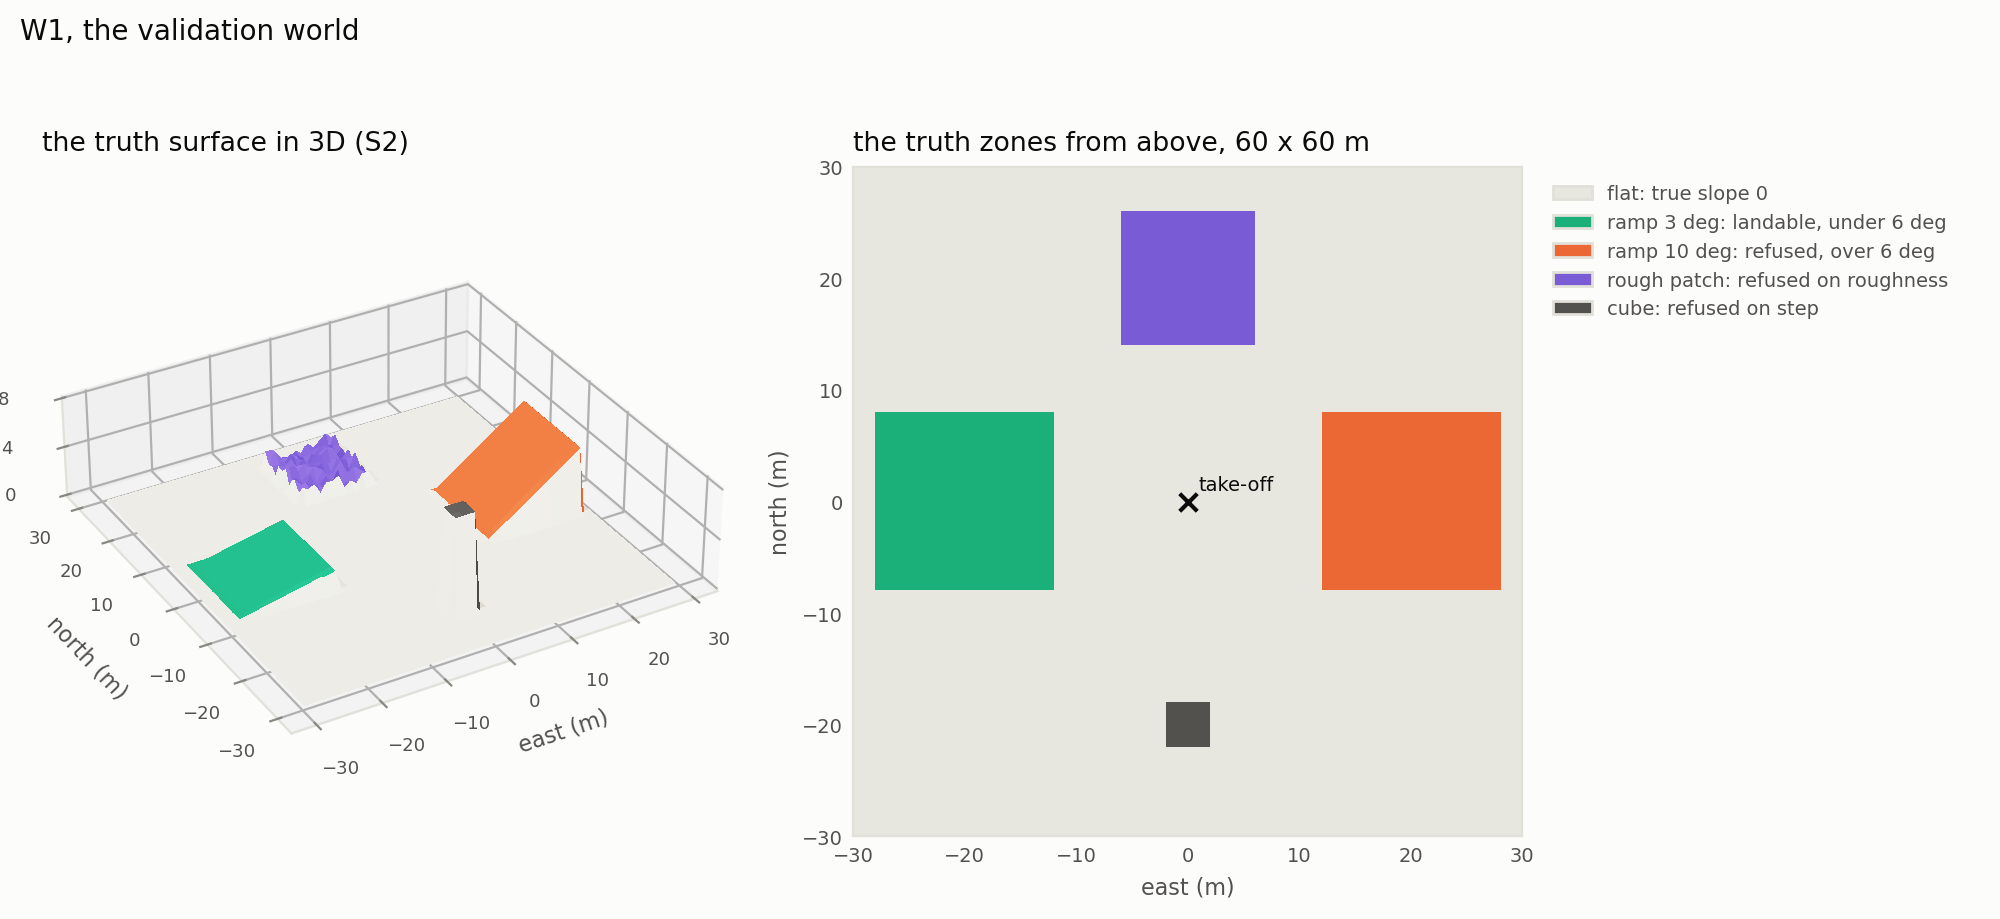
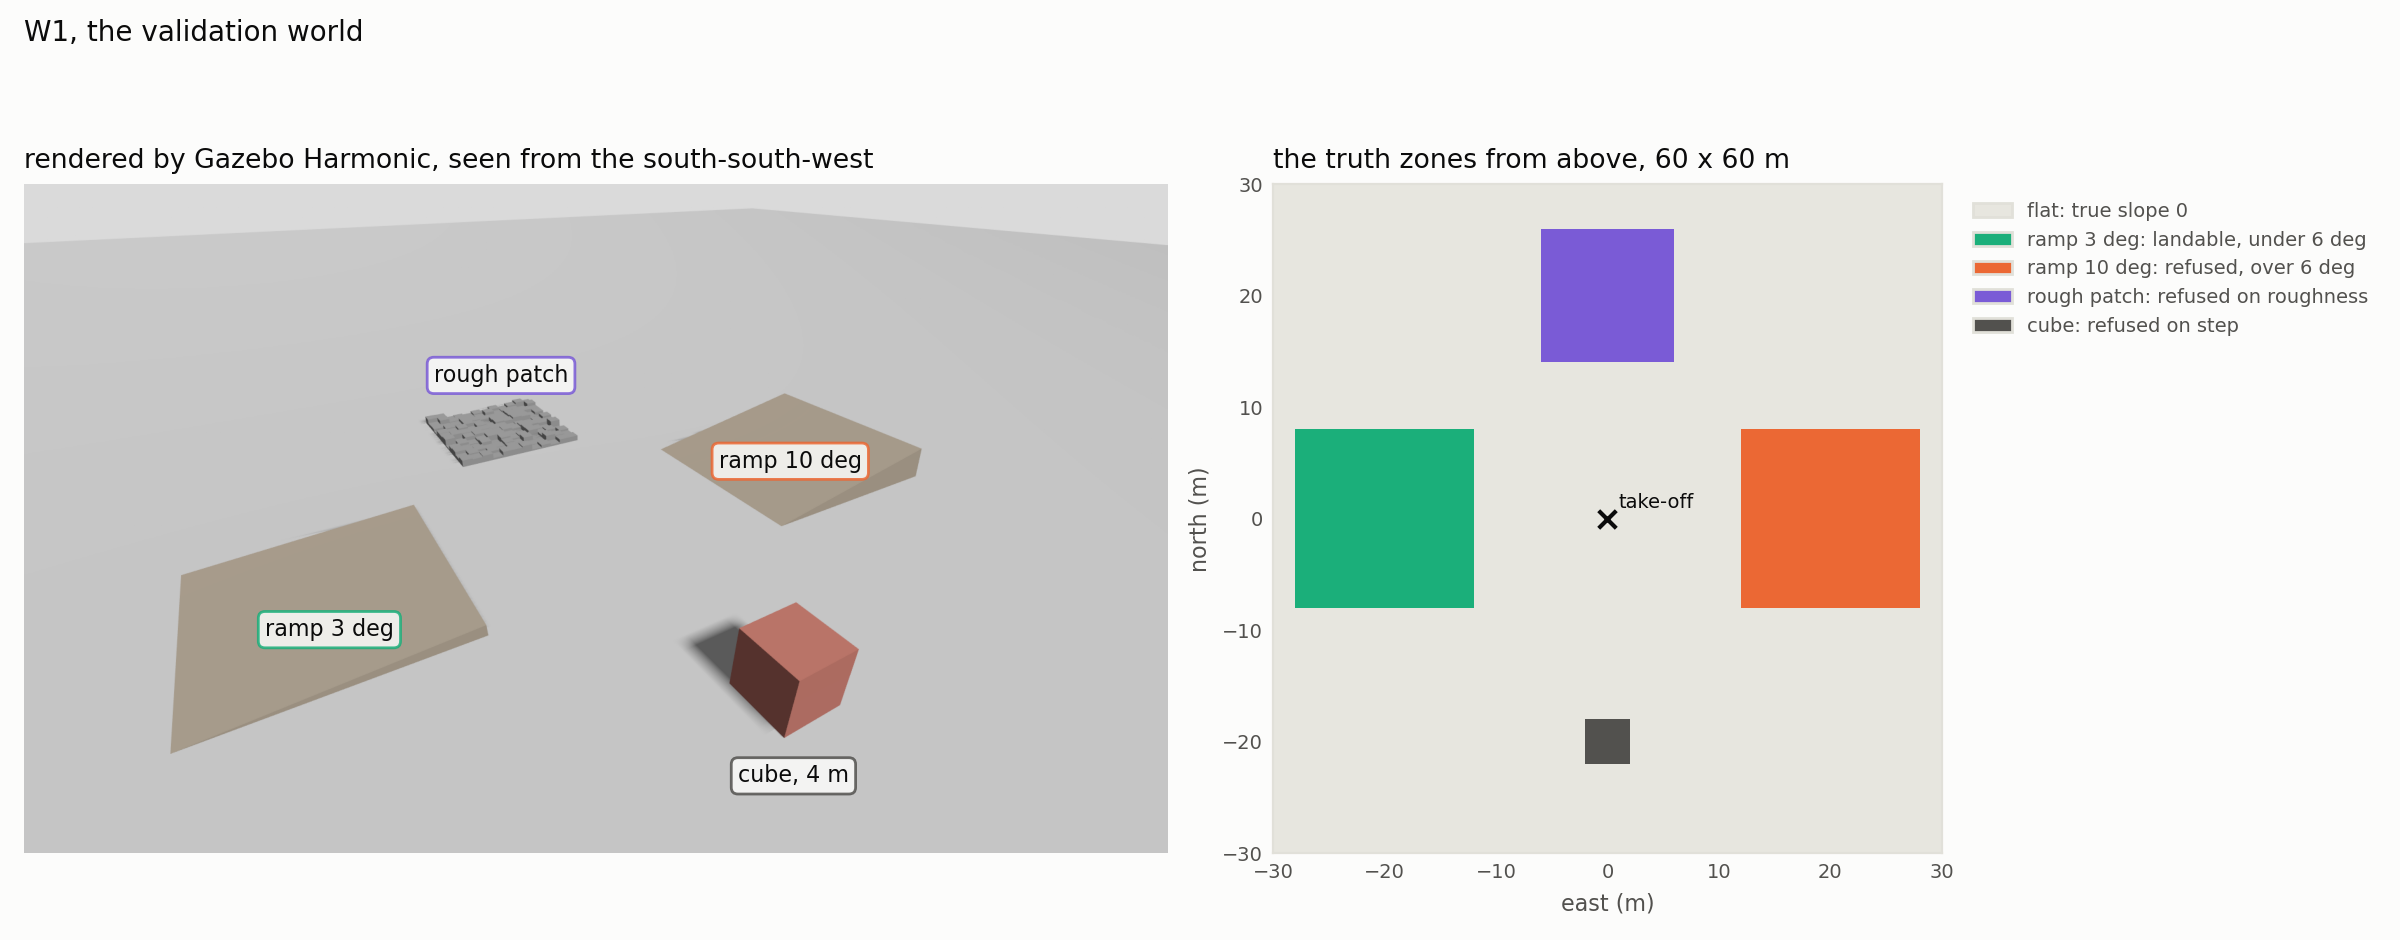
F3 from a real Gazebo render; record why gate H has 210 missions not 240
F3 now shows W1 rendered by Gazebo Harmonic next to the truth map, as
spec 6.2 asks: f3_capture/capture.sh starts the world with a GUI config
holding a fixed camera (south-south-west, 32 deg) and saves the render
through the Screenshot service; zones placed on it check against the
truth centroids (3 deg ramp west, 10 deg ramp east, rough north, cube
south). Gate H: B2 is B3 at alpha 1 by construction (U = alpha G +
(1 - alpha) M reduces to G over the same C1-admissible candidates), so
7 configurations and 210 missions; note under the gates table, pointer
in section 5. Campaign marker files removed and ignored. Before the
tag: colcon build clean, 120 tests passed, 1 skipped (copyright).

diff --git a/experiments/2026-10-24_thesis_figures/f3_validation_world.py b/experiments/2026-10-24_thesis_figures/f3_validation_world.py
@@ -1,20 +1,23 @@
 #!/usr/bin/env python3
 """
-Spec F3: the validation world W1, its geometry in 3D next to its truth
+Spec F3: the validation world W1, the Gazebo render next to its truth
 map, the zones named.
 
-The spec asks for a Gazebo render next to the truth map. Drawn here
-instead: a 3D view of the truth surface itself (worlds/
-validation_truth.npz, rasterised from the world's own geometry, S2),
-which shows the same scene without starting a simulation, and is
-exactly what every measure of the thesis is compared against. A
-Gazebo screenshot can replace the left panel later if wanted.
+Left: W1 rendered by Gazebo Harmonic itself (f3_gazebo_w1.png, saved
+by f3_capture/capture.sh through the GUI's Screenshot service, camera
+fixed in f3_capture/gui.config: from the south-south-west, 32 deg
+above the horizon). The zone names on it are placed at pixel positions
+read on that render; they hold for that camera pose only, so a new
+pose means new positions. Right: the truth zones seen from above
+(worlds/validation_truth.npz, rasterised from the world's own
+geometry, S2), with the geometry each one tests: flat ground, a ramp
+under the 6 deg threshold, one over it, a rough patch, a cube.
 
-Left: the truth surface in 3D, heights exaggerated by 2 so the 3 deg
-ramp shows. Right: the truth zones seen from above, with their names
-and the geometry each one tests (flat ground, a ramp under the 6 deg
-threshold, one over it, a rough patch, a cube).
+Choice: a real render rather than the 3D plot of the truth drawn here
+until 27 Oct, as the spec asks for one; the truth map stays on the
+right because it is what every measure is compared against.
 
+    bash f3_capture/capture.sh      # once, Gazebo, nothing else running
     python3 f3_validation_world.py
 """
 
@@ -22,14 +25,16 @@ from pathlib import Path
 
 import matplotlib
 matplotlib.use('Agg')
+import matplotlib.image as mpimg  # noqa: E402
 import matplotlib.pyplot as plt  # noqa: E402
-from matplotlib.colors import LightSource, ListedColormap  # noqa: E402
+from matplotlib.colors import ListedColormap  # noqa: E402
 import numpy as np  # noqa: E402
 
-ROOT = Path(__file__).resolve().parents[2]
+HERE = Path(__file__).resolve().parent
+ROOT = HERE.parents[1]
 TRUTH = ROOT / 'worlds' / 'validation_truth.npz'
-OUT = Path(__file__).resolve().parent / 'f3_validation_world.png'
-EXAGGERATION = 2.0
+RENDER = HERE / 'f3_gazebo_w1.png'
+OUT = HERE / 'f3_validation_world.png'
 
 SURFACE, INK, INK2, MUTED, GRID = ('#fcfcfb', '#0b0b0b', '#52514e',
                                    '#898781', '#e1e0d9')
@@ -41,15 +46,21 @@ LABEL = {'flat': 'flat: true slope 0',
          'ramp_bad': 'ramp 10 deg: refused, over 6 deg',
          'rough': 'rough patch: refused on roughness',
          'obstacle': 'cube: refused on step'}
+# Pixel positions of each zone on the render of gui.config's camera
+# (image 1799 x 1052, y down), and the short name written there.
+ON_RENDER = {'ramp_ok': ((480, 700), 'ramp 3 deg'),
+             'ramp_bad': ((1205, 435), 'ramp 10 deg'),
+             'rough': ((750, 300), 'rough patch'),
+             'obstacle': ((1210, 930), 'cube, 4 m')}
 
 
 def main():
+    if not RENDER.exists():
+        raise SystemExit(f'{RENDER.name} missing: run f3_capture/capture.sh')
     t = np.load(TRUTH)
     names = [str(n) for n in t['zone_names']]
-    up = t['truth'].T                     # heights up, rows north
-    zone = t['zone'].T
+    zone = t['zone'].T                    # rows north, columns east
     c = t['centres']
-    east, north = np.meshgrid(c, c)
 
     plt.rcParams.update({'font.family': 'sans-serif', 'font.size': 8,
                          'axes.edgecolor': GRID, 'axes.labelcolor': INK2,
@@ -59,30 +70,23 @@ def main():
                          'axes.facecolor': SURFACE,
                          'savefig.facecolor': SURFACE,
                          'legend.frameon': False})
-    fig = plt.figure(figsize=(10.0, 4.6))
-    ax3 = fig.add_subplot(1, 2, 1, projection='3d')
-    rgb = np.array([[int(ZONE_COLOURS[names[z]][k:k + 2], 16) / 255.0
-                     for k in (1, 3, 5)] for z in zone.ravel()])
-    rgb = rgb.reshape(zone.shape + (3,))
-    shade = LightSource(azdeg=315, altdeg=40).shade_rgb(
-        rgb, up * EXAGGERATION, blend_mode='soft', fraction=0.6)
-    ax3.plot_surface(east, north, up * EXAGGERATION, facecolors=shade,
-                     rstride=1, cstride=1, linewidth=0, antialiased=False,
-                     shade=False)
-    ax3.view_init(elev=32, azim=-120)
-    ax3.set_box_aspect((1, 1, 0.25))
-    ax3.set_xlabel('east (m)')
-    ax3.set_ylabel('north (m)')
-    ax3.set_zlabel(f'height x {EXAGGERATION:.0f} (m)')
-    ax3.tick_params(labelsize=6.5)
-    ax3.set_zticks([0, 4, 8])
-    ax3.set_title('the truth surface in 3D (S2)', loc='left', color=INK)
+    fig, (ax3, ax) = plt.subplots(1, 2, figsize=(12.0, 4.7),
+                                  gridspec_kw={'width_ratios': [1.71, 1.0]})
+    img = mpimg.imread(RENDER)
+    ax3.imshow(img)
+    for key, ((x, y), text) in ON_RENDER.items():
+        ax3.text(x, y, text, ha='center', va='center', fontsize=8,
+                 color=INK, bbox={'facecolor': SURFACE, 'alpha': 0.85,
+                                  'edgecolor': ZONE_COLOURS[key],
+                                  'boxstyle': 'round,pad=0.3'})
+    ax3.set_axis_off()
+    ax3.set_title('rendered by Gazebo Harmonic, seen from the '
+                  'south-south-west', loc='left', color=INK)
 
-    ax = fig.add_subplot(1, 2, 2)
-    cmap = ListedColormap([ZONE_COLOURS[n] for n in names])
     res = float(t['resolution'])
     extent = (c[0] - res / 2, c[-1] + res / 2, c[0] - res / 2,
               c[-1] + res / 2)
+    cmap = ListedColormap([ZONE_COLOURS[n] for n in names])
     ax.imshow(zone, origin='lower', extent=extent, cmap=cmap, vmin=-0.5,
               vmax=len(names) - 0.5, interpolation='nearest')
     ax.scatter([0], [0], marker='x', s=40, color=INK, zorder=3)

diff --git a/docs/prompt-maitre-projet-uav.md b/docs/prompt-maitre-projet-uav.md
@@ -802,7 +802,7 @@ Chacune doit avoir une définition opératoire, pas une intention.
 ### 5.4 Plan expérimental
 
 - **10 runs par configuration et par monde.** Les mêmes graines sont utilisées pour toutes les configurations, de sorte que les comparaisons soient appariées.
-- 3 mondes x 4 configurations, plus 5 valeurs de `alpha` pour B3, soit 3 x (3 + 5) x 10 = **240 missions**. À environ 3 minutes par mission plus le traitement, c'est faisable en quelques jours de machine, à condition que le lancement et le dépouillement soient **scriptés de bout en bout**. Prévoir ce script, c'est l'investissement qui rend le chapitre résultats possible.
+- 3 mondes x 4 configurations, plus 5 valeurs de `alpha` pour B3, soit 3 x (3 + 5) x 10 = **240 missions**. Volées : 210, B2 étant B3 à `alpha` = 1 par construction (note de la porte H, section 7). À environ 3 minutes par mission plus le traitement, c'est faisable en quelques jours de machine, à condition que le lancement et le dépouillement soient **scriptés de bout en bout**. Prévoir ce script, c'est l'investissement qui rend le chapitre résultats possible.
 - Résultats rapportés en **médiane et écart interquartile**, pas en moyenne : avec 10 runs et des distributions non normales, la moyenne ment.
 - Comparaisons appariées par test de Wilcoxon, avec la taille d'effet, pas seulement une valeur p.
 - Toute mission qui échoue pour une raison technique, perte de lien offboard, plantage du simulateur, est **relancée et signalée**, jamais écartée silencieusement. Le nombre de relances est rapporté.
@@ -909,7 +909,9 @@ Lettres fixées, utilisées pour référence dans toutes les conversations.
 | E | C1, invariant | zéro violation de I1 sur 10 missions, et violations présentes sans C1 | **passée le 20 octobre.** Seconde campagne W1 de 80 missions (`experiments/2026-10-20_campaign_w1_fix`), identique à la première au seul correctif du registre c7fc2aa près : **0 des 60 missions C1 violent I1** (31 sur 60 avant, Fisher p = 4.6e-12), contre 10/10 en B0 et 6/10 en B1. Aucune mission C1 n'entame sa réserve, marge minimale la plus basse +0.12 kJ. Prix de C1 face à B1 : un point de couverture (95 % contre 95 à 96 %, p 0.0008), pour 3.70 kJ restants contre 1.32 kJ. **Sur W2 le 21 octobre** (`experiments/2026-10-21_campaign_w2`, 48 kJ) : 0 des 50 missions C1 violent I1, contre 10/10 en B0 et 1/10 en B1 (un cycle, -71 J, au cycle de l'engagement du poser, réserve non entamée). B1 y tient parce que son seuil de 30 % couvre le retour depuis toute la zone : marge médiane +3.42 kJ à sa décision de retour, contre +0.24 kJ sur W1 à 16 kJ. Le contraste avec B1 dépend du couple seuil et monde ; sur W2 il repose sur B0. **Sur W3 le 22 octobre, échouée telle qu'écrite** (`experiments/2026-10-22_campaign_w3`, 80 kJ, N = 5) : 2 des 25 missions C1 journalisent des violations, contre 5/5 en B0 et 0/5 en B1. Les deux suivent un S9.5 survenu sans script, la zone visée par le retour rétrogradée au compte de passages pendant le retour ; le système réagit comme S9.5 le demande, mais la zone suivante est au-delà de la marge. B3a075_r2 : réserve intacte (+570 J au poser), violations dues au freinage hors du chemin en cours (170 J) et à l'évaluation de I1 depuis un drone en mouvement. B3a000_r5 : 1.63 kJ de réserve entamés, la zone perdue revenue 3 s plus tard sans que le retour la reprenne. Voir la section 10. **Passée sur W3 avec le code final le 23 octobre** (`experiments/2026-10-23_campaign_w3_final`, N = 10, 70 missions au premier essai) : **0 des 50 missions C1 violent I1**, aucune n'entame sa réserve, contre 10/10 en B0 (3 posers sur une cellule dangereuse) et 1/10 en B1 (9 cycles). Face à B0, p = 0.0001, r -1.00 ; face à B1 à alpha 0.5, couverture vue 0.63 contre 0.50 (p 0.0002) pour 9.6 kJ restants contre 17.6. **Sur le code final, les trois mondes** (`experiments/2026-10-23_campaign_w1_final`, `_w2_final`, `_w3_final`, 210 missions, toutes au premier essai) : 0 des 150 missions C1 violent I1 et aucune n'entame sa réserve ; B0 viole I1 dans 30 missions sur 30 ; B1 dans 10/10 sur W1 à 16 kJ (1.08 kJ de réserve à chaque fois), 0/10 sur W2, 1/10 sur W3 |
 | F | C2, utilité | effet de `alpha` monotone et interprétable sur au moins une métrique | **passée le 20 octobre** (`experiments/2026-10-20_gate_f_16kJ`, W1, 16 kJ, 5 valeurs de `alpha` x 10 missions, après la normalisation de G et M par cycle) : Spearman de `alpha` avec les cellules par kJ +0.79, la marge minimale +0.54, l'énergie restante +0.50, la durée -0.48, toutes p < 0.001 ; 0 violation sur 50. **Optimum intérieur** : la couverture culmine à `alpha` 0.75, 81 % contre 67 % au gain pur (`alpha` 1, même classement que B2, p = 0.017) et à la marge pure (p = 0.003). Le gain pur part loin d'abord, n'a plus de second aller-retour admissible et rentre après 2 choix avec 4.0 kJ inutilisés. **Reproduit sur W2 le 21 octobre** (`experiments/2026-10-21_campaign_w2`, 48 kJ, 50 missions B3), comparaison fixée par W1 avant la campagne : `alpha` 0.75 couvre 67 % contre 61 % au gain pur (p 0.0017, r +0.84) et 60 % à la marge pure (p 0.0002, r +1.00). Effets monotones : délai de la première zone confirmée (Spearman -0.62, p < 0.0001), choix de frontière par mission (médianes 18.5, 18, 16, 15, 13). 0 violation sur 50. **Reproduit sur W3 le 22 octobre** (N = 5 par `alpha`) : `alpha` 0.75 couvre 64 % contre 46 % à la marge pure (p 0.0079, r +1.00) et 47 % au gain pur (p 0.095, r +0.68), cellules par kJ 243 contre 164 et 214 (p 0.0079 et 0.032). Effet monotone : choix de frontière par mission 40, 36, 29, 27, 20 (Spearman -0.93, p < 0.0001). **Sur le code final, N = 10** : `alpha` 0.75 couvre 60 % contre 48 % à la marge pure (p 0.0002, r +1.00) et 52 % au gain pur (p 0.0006, r +0.92), optimum intérieur plat entre 0.5 et 0.75 ; choix de frontière 40 à 21 (Spearman -0.96), distance moyenne à une zone confirmée croissante avec `alpha` (+0.48, p 0.0004). **Sur le code final** : `alpha` 0.75 contre les deux extrémités, couverture 0.77 contre 0.65 et 0.76 sur W1 (p 0.0002 et 0.0091), 0.69 contre 0.61 et 0.59 sur W2 (p 0.0002 et 0.0006), 0.60 contre 0.48 et 0.52 sur W3 (p 0.0002 et 0.0006) ; optimum intérieur sur les trois mondes |
 | G | exploration autonome de bout en bout | mission complète sans intervention, du décollage au poser sur zone confirmée | **fait le 19 octobre** : couverture 100 % de W1 en 97 s, poser sur la zone de décollage à 0.7 m |
-| H | évaluation contre référence | les 240 missions, scriptées, dépouillées, figures générées | **faite sur le code final les 23 et 24 octobre** : W1, W2 et W3 à N = 10, sept configurations, 210 missions, 210 au premier essai, 0 saut d'horloge, figures F9 à F12 pour les trois mondes. S9.5 provoqué : le dépôt sur le pad Z ne s'est jamais posé en 26 missions (cas rare par géométrie, mesuré) ; variante au retour faite le 24 octobre (`experiments/2026-10-24_s95_return`) : 4 zones invalidées par un champ de caisses pendant le retour, séquence S9.5 complète et journalisée dans les 4, I1 tenu dans 1, violation journalisée et réserve couvrant le manque (au plus 0.30 kJ) dans 3 ; figure F13 |
+| H | évaluation contre référence | les 240 missions, scriptées, dépouillées, figures générées | **faite sur le code final les 23 et 24 octobre** : W1, W2 et W3 à N = 10, sept configurations, 210 missions (écart au protocole de la section 5, voir la note sous ce tableau), 210 au premier essai, 0 saut d'horloge, figures F9 à F12 pour les trois mondes. S9.5 provoqué : le dépôt sur le pad Z ne s'est jamais posé en 26 missions (cas rare par géométrie, mesuré) ; variante au retour faite le 24 octobre (`experiments/2026-10-24_s95_return`) : 4 zones invalidées par un champ de caisses pendant le retour, séquence S9.5 complète et journalisée dans les 4, I1 tenu dans 1, violation journalisée et réserve couvrant le manque (au plus 0.30 kJ) dans 3 ; figure F13 |
+
+**Note sur la porte H, 210 missions au lieu de 240.** La section 5 prévoyait quatre configurations, dont B2 (C1 actif, choix par gain d'information pur parmi les candidates admissibles). B2 n'a pas été volé parce qu'il est B3 à `alpha` = 1 par construction : C2 classe par U = alpha G + (1 - alpha) M (`mission_policy.py`), qui se réduit à G quand alpha vaut 1, sur les mêmes candidates admissibles par C1. Le code les confond depuis 2d19e50 (`experiments/2026-10-21_campaign_w2`). Voler B2 aurait répété trente missions identiques à celles de B3 à alpha 1 ; les résultats de B2 se lisent donc sur B3 à alpha 1, dans les trois mondes.
 
 A, B et D sont de l'infrastructure. E et F sont la contribution. G rend l'ensemble démontrable. H le rend publiable.
 

diff --git a/experiments/2026-10-24_thesis_figures/README.md b/experiments/2026-10-24_thesis_figures/README.md
@@ -14,7 +14,7 @@ Run from this directory, ROS and the workspace sourced (F4 to F7 import
 |---|---|---|---|
 | F1 | architecture, nodes and flows, contributions dashed | `f1_architecture.png` | 4 uav_core nodes, 2 bridges, real topic names; dashed: registry, C1, C2 |
 | F2 | the four frames and the conversions | `f2_frames.png` | FLU to FRD (+0.15 m down), R(q) and position at the scan stamp minus 0.060 s, ENU to NED |
-| F3 | validation world W1, geometry and truth zones | `f3_validation_world.png` | truth surface in 3D in place of a Gazebo render (choice in the header) |
+| F3 | validation world W1, Gazebo render and truth zones | `f3_validation_world.png` | render by Gazebo itself (`f3_capture/capture.sh`, camera fixed in `f3_capture/gui.config`), saved as `f3_gazebo_w1.png` |
 | F4 | elevation map v6 against the truth, per-zone error | `f4_map_vs_truth.png` | flat RMS 0.240 m, ramp 3 deg 0.128 m, cube bias -1.667 m (P2) |
 | F5 | slope distribution per zone, the 6 deg threshold | `f5_slope_noise.png` | flat p95 4.34 deg, 10 deg ramp p01 8.25 deg, 3 deg ramp p99 6.17 deg |
 | F6 | slope and roughness kept apart | `f6_slope_roughness.png` | zone medians, map against truth |
